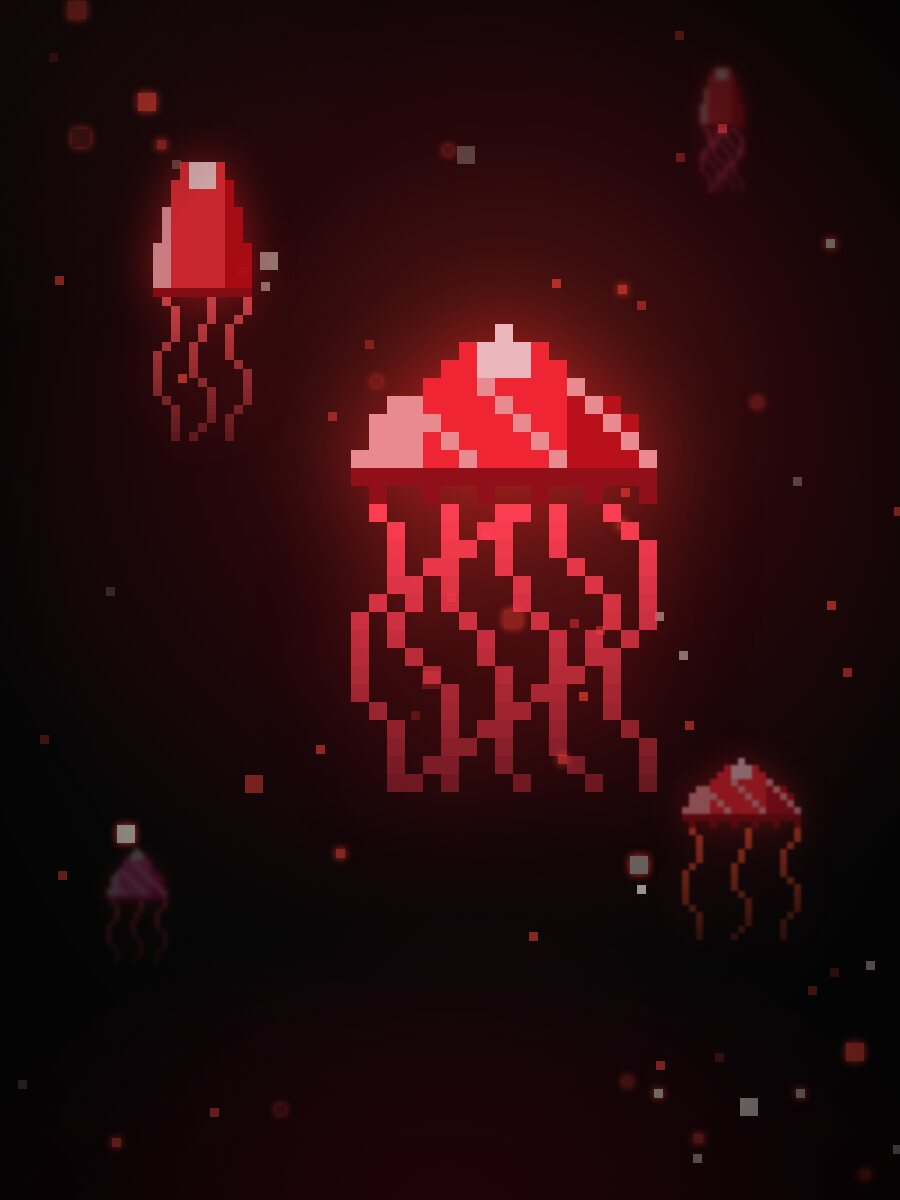
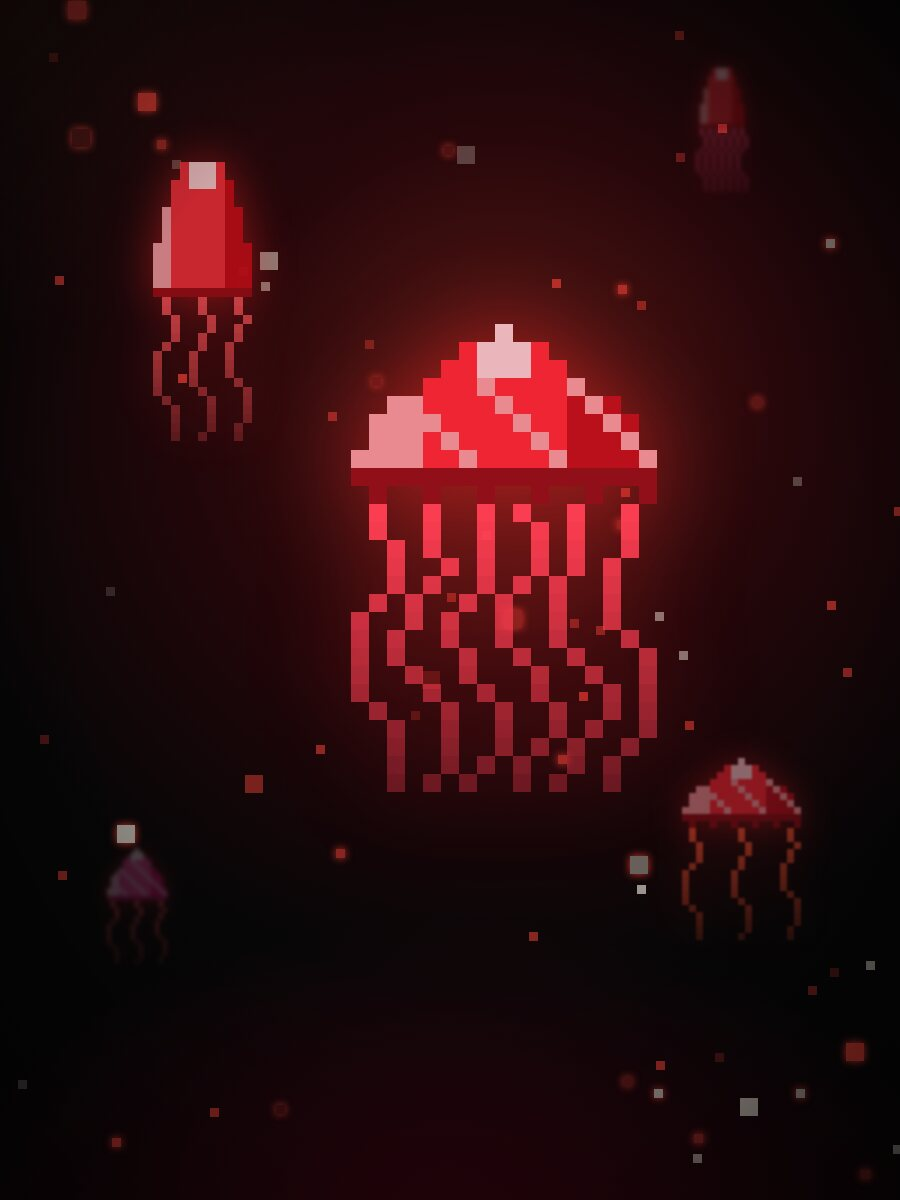
invitados del 4/12: Psico Caldeo + VHS (web, JSON-LD y calendario) y arte de la fecha con las patas nuevas
- Hero, ticket, "qué incluye" y fila de fechas con los invitados; JSON-LD con los dos como performers.
- OG nuevo og-los-rojos-4dic-invitados.jpg (patas que no se cruzan + "+ Psico Caldeo + VHS"), con nombre nuevo para que WhatsApp/Facebook no muestren el viejo.
- los-rojos-4dic.jpg (hero) con las patas nuevas.
- Calendario: la descripción sale de HM_EVENT.details (el ICS y el link de Google Calendar se arman en el navegador) y nombra a los invitados. También en lambdas/calendar, que hoy no está ruteada en aws-handler.js.

Claude-Session: https://claude.ai/code/session_01UHkbUBUV7byLMnd84JjHp3

Changed region(s): [[0.4044, 0.4008, 0.7467, 0.6783], [0.1867, 0.2467, 0.28, 0.37], [0.8089, 0.6783, 0.9022, 0.7708]]

diff --git a/public/index.html b/public/index.html
@@ -4,14 +4,14 @@
 <meta charset="UTF-8" />
 <meta name="viewport" content="width=device-width, initial-scale=1.0" />
 <title>Hidromedusa — Música electrónica en vivo de Tandil | 4 de diciembre en Los Rojos</title>
-<meta name="description" content="Hidromedusa — música electrónica en vivo desde Tandil. Próxima fecha: viernes 4 de diciembre en Los Rojos (Pinto 35), con invitados. Entrada gratis." />
+<meta name="description" content="Hidromedusa — música electrónica en vivo desde Tandil. Próxima fecha: viernes 4 de diciembre en Los Rojos (Pinto 35), con Psico Caldeo y VHS. Entrada gratis." />
 <link rel="canonical" href="https://hidromedusa.com/" />
 <meta name="theme-color" content="#0a0a0b" />
 <meta name="robots" content="index, follow, max-image-preview:large" />
 <script type="application/ld+json">
 {"@context":"https://schema.org","@graph":[
-{"@type":"MusicGroup","@id":"https://hidromedusa.com/#banda","name":"Hidromedusa","url":"https://hidromedusa.com/","genre":"Música electrónica en vivo","image":"https://hidromedusa.com/og-los-rojos-4dic.jpg","email":"hola@hidromedusa.com","sameAs":["https://www.instagram.com/hidromedusa"],"areaServed":"Tandil, Buenos Aires, Argentina"},
-{"@type":"MusicEvent","name":"Hidromedusa en Los Rojos","description":"Hidromedusa vuelve a Los Rojos (Pinto 35, Tandil) con música electrónica en vivo e invitados a confirmar. Entrada gratis.","startDate":"2026-12-04","eventStatus":"https://schema.org/EventScheduled","eventAttendanceMode":"https://schema.org/OfflineEventAttendanceMode","isAccessibleForFree":true,"image":["https://hidromedusa.com/og-los-rojos-4dic.jpg"],"location":{"@type":"Place","name":"Los Rojos","address":{"@type":"PostalAddress","streetAddress":"Pinto 35","addressLocality":"Tandil","addressRegion":"Buenos Aires","addressCountry":"AR"}},"performer":[{"@id":"https://hidromedusa.com/#banda"}],"organizer":{"@id":"https://hidromedusa.com/#banda"},"offers":{"@type":"Offer","url":"https://hidromedusa.com/#vernos","price":"0","priceCurrency":"ARS","availability":"https://schema.org/InStock","validFrom":"2026-11-10"}}
+{"@type":"MusicGroup","@id":"https://hidromedusa.com/#banda","name":"Hidromedusa","url":"https://hidromedusa.com/","genre":"Música electrónica en vivo","image":"https://hidromedusa.com/og-los-rojos-4dic-invitados.jpg","email":"hola@hidromedusa.com","sameAs":["https://www.instagram.com/hidromedusa"],"areaServed":"Tandil, Buenos Aires, Argentina"},
+{"@type":"MusicEvent","name":"Hidromedusa en Los Rojos","description":"Hidromedusa vuelve a Los Rojos (Pinto 35, Tandil) con música electrónica en vivo. Invitados: Psico Caldeo y VHS. Entrada gratis.","startDate":"2026-12-04","eventStatus":"https://schema.org/EventScheduled","eventAttendanceMode":"https://schema.org/OfflineEventAttendanceMode","isAccessibleForFree":true,"image":["https://hidromedusa.com/og-los-rojos-4dic-invitados.jpg"],"location":{"@type":"Place","name":"Los Rojos","address":{"@type":"PostalAddress","streetAddress":"Pinto 35","addressLocality":"Tandil","addressRegion":"Buenos Aires","addressCountry":"AR"}},"performer":[{"@id":"https://hidromedusa.com/#banda"},{"@type":"MusicGroup","name":"Psico Caldeo"},{"@type":"MusicGroup","name":"VHS"}],"organizer":{"@id":"https://hidromedusa.com/#banda"},"offers":{"@type":"Offer","url":"https://hidromedusa.com/#vernos","price":"0","priceCurrency":"ARS","availability":"https://schema.org/InStock","validFrom":"2026-11-10"}}
 ]}
 </script>
 
@@ -26,19 +26,19 @@
 <meta property="og:type" content="website" />
 <meta property="og:site_name" content="Hidromedusa" />
 <meta property="og:title" content="Hidromedusa · Vie 4/12 en Los Rojos, Tandil · Entrada gratis" />
-<meta property="og:description" content="Música electrónica en vivo desde Tandil. Volvemos a Los Rojos (Pinto 35) el viernes 4 de diciembre, con invitados. Entrada gratis, hora a confirmar." />
+<meta property="og:description" content="Música electrónica en vivo desde Tandil. Volvemos a Los Rojos (Pinto 35) el viernes 4 de diciembre, con Psico Caldeo y VHS. Entrada gratis, hora a confirmar." />
 <meta property="og:url" content="https://hidromedusa.com/" />
-<meta property="og:image" content="https://hidromedusa.com/og-los-rojos-4dic.jpg" />
+<meta property="og:image" content="https://hidromedusa.com/og-los-rojos-4dic-invitados.jpg" />
 <meta property="og:image:width" content="1200" />
 <meta property="og:image:height" content="630" />
 <meta property="og:image:type" content="image/jpeg" />
-<meta property="og:image:alt" content="Hidromedusa — viernes 4 de diciembre en Los Rojos (Pinto 35), Tandil, entrada libre. Un banco de hidromedusas pixeladas rojas." />
-<meta name="twitter:image:alt" content="Hidromedusa — viernes 4 de diciembre en Los Rojos, Tandil" />
+<meta property="og:image:alt" content="Hidromedusa + Psico Caldeo + VHS — viernes 4 de diciembre en Los Rojos (Pinto 35), Tandil, entrada libre. Un banco de hidromedusas pixeladas rojas." />
+<meta name="twitter:image:alt" content="Hidromedusa + Psico Caldeo + VHS — viernes 4 de diciembre en Los Rojos, Tandil" />
 <meta property="og:locale" content="es_AR" />
 <meta name="twitter:card" content="summary_large_image" />
 <meta name="twitter:title" content="Hidromedusa · Vie 4/12 en Los Rojos, Tandil · Entrada gratis" />
-<meta name="twitter:description" content="Música electrónica en vivo desde Tandil. Volvemos a Los Rojos (Pinto 35) el viernes 4 de diciembre, con invitados. Entrada gratis, hora a confirmar." />
-<meta name="twitter:image" content="https://hidromedusa.com/og-los-rojos-4dic.jpg" />
+<meta name="twitter:description" content="Música electrónica en vivo desde Tandil. Volvemos a Los Rojos (Pinto 35) el viernes 4 de diciembre, con Psico Caldeo y VHS. Entrada gratis, hora a confirmar." />
+<meta name="twitter:image" content="https://hidromedusa.com/og-los-rojos-4dic-invitados.jpg" />
 
 <link rel="preconnect" href="https://fonts.googleapis.com" />
 <link rel="preconnect" href="https://fonts.gstatic.com" crossorigin />
@@ -552,7 +552,7 @@
         <div>
           <div class="hn-k"><span class="blip"></span> Próxima fecha · Volvemos a Los Rojos</div>
           <div class="hn-t">Vie 4 Dic<br />Los Rojos · Pinto 35</div>
-          <div class="hn-s">Invitados <b>a confirmar</b> · hora a confirmar · Tandil</div>
+          <div class="hn-s">Invitados <b>Psico Caldeo + VHS</b> · hora a confirmar · Tandil</div>
         </div>
         <div class="hn-cta">
           <div class="hn-price">GRATIS</div>
@@ -600,7 +600,7 @@
             <div><div class="k">Fecha</div><div class="v">Viernes 4 de diciembre</div></div>
             <div><div class="k">Hora</div><div class="v">A confirmar</div></div>
             <div><div class="k">Lugar</div><div class="v"><a href="https://maps.google.com/?q=Pinto+35,+Tandil,+Buenos+Aires" target="_blank" rel="noopener" style="color:var(--acid)">Pinto 35 · Tandil ↗</a></div></div>
-            <div><div class="k">Invitados</div><div class="v">Se anuncian pronto</div></div>
+            <div><div class="k">Invitados</div><div class="v">Psico Caldeo + VHS</div></div>
           </div>
         </div>
         <div class="stub-side">
@@ -648,7 +648,7 @@
             <div class="incluye-h">Qué incluye</div>
             <ul class="incluye-list">
               <li>Acceso libre a la tocada</li>
-              <li>Invitados (se anuncian pronto)</li>
+              <li>Invitados: Psico Caldeo + VHS</li>
               <li>Barra habilitada</li>
               <li>Tu hidromedusa digital para compartir</li>
               <li>Si ya tenés una, evoluciona</li>
@@ -767,7 +767,7 @@
       <div style="margin-top:36px" class="reveal">
         <a class="cat-row" onclick="goTo('vernos')"><span class="cat-n">001</span><span class="cat-date">SÁB 19 SEP</span><span class="cat-venue">Los Rojos <small>Pinto 35 · Tandil, BA</small></span><span class="cat-status">Hecho</span><span class="cat-arrow"><i data-lucide="arrow-up-right"></i></span></a>
         <a class="cat-row" onclick="goTo('vernos')"><span class="cat-n">002</span><span class="cat-date">SÁB 31 OCT · 21HS</span><span class="cat-venue">990 Espacio Cultural <small>VHS + Marcos Acosta · Tandil, BA</small></span><span class="cat-status">Hecho</span><span class="cat-arrow"><i data-lucide="arrow-up-right"></i></span></a>
-        <a class="cat-row" onclick="goTo('vernos')"><span class="cat-n">003</span><span class="cat-date">VIE 4 DIC</span><span class="cat-venue">Los Rojos <small>Pinto 35 · invitados a confirmar · Tandil, BA</small></span><span class="cat-status hot" data-until="2026-12-04">Gratis</span><span class="cat-status" data-after="2026-12-04" hidden>Hecho</span><span class="cat-arrow"><i data-lucide="arrow-up-right"></i></span></a>
+        <a class="cat-row" onclick="goTo('vernos')"><span class="cat-n">003</span><span class="cat-date">VIE 4 DIC</span><span class="cat-venue">Los Rojos <small>Psico Caldeo + VHS · Tandil, BA</small></span><span class="cat-status hot" data-until="2026-12-04">Gratis</span><span class="cat-status" data-after="2026-12-04" hidden>Hecho</span><span class="cat-arrow"><i data-lucide="arrow-up-right"></i></span></a>
         <a class="cat-row" onclick="choose('proponer')"><span class="cat-n">004</span><span class="cat-date">¿TU FECHA?</span><span class="cat-venue">Proponela vos <small>fiesta · club · festival · espacio</small></span><span class="cat-status open">Abierta</span><span class="cat-arrow"><i data-lucide="arrow-up-right"></i></span></a>
       </div>
     </div>
@@ -933,6 +933,7 @@ const HM_EVENT = {
   id:'ev-2', title:'Hidromedusa · Los Rojos',
   date:'2026-12-04', start:'', end:'2026-12-05T06:00:00-03:00',   // hora a confirmar (start vacío)
   venue:'Los Rojos, Pinto 35, Tandil, Buenos Aires, AR',
+  details:'Hidromedusa en vivo en Los Rojos con Psico Caldeo y VHS. Entrada gratis.',
   dateLabel:'Viernes 4 de diciembre 2026 · hora a confirmar', shortLabel:'viernes 4/12 en Los Rojos (Pinto 35)'
 };
 // Pasado el fin del evento no se vende más y la entrada queda como recuerdo.
@@ -1578,7 +1579,7 @@ function buildGoogleCalUrl(ev){
   const params=new URLSearchParams({
     action:'TEMPLATE', text:ev.title,
     dates:fmtICS(ev.start)+'/'+fmtICS(ev.end),
-    details:'Hidromedusa en vivo en Los Rojos. Entrada gratis.', location:ev.venue
+    details:ev.details, location:ev.venue
   });
   return 'https://calendar.google.com/calendar/render?'+params;
 }
@@ -1587,7 +1588,7 @@ function buildICS(ev){
     'UID:'+ev.id+'@hidromedusa','DTSTAMP:'+fmtICS(Date.now()),
     'DTSTART:'+fmtICS(ev.start),'DTEND:'+fmtICS(ev.end),
     'SUMMARY:'+ev.title,'LOCATION:'+ev.venue,
-    'DESCRIPTION:Hidromedusa en vivo en Los Rojos. Entrada gratis.',
+    'DESCRIPTION:'+ev.details,
     'END:VEVENT','END:VCALENDAR'].join('\r\n');
 }
 async function addToCalendar(){

diff --git a/lambdas/calendar/index.js b/lambdas/calendar/index.js
@@ -11,7 +11,7 @@ const HIDROMEDUSA_EVENTS = [
   {
     id: 'ev-2',
     title: 'Hidromedusa · Los Rojos',
-    description: 'Hidromedusa vuelve a Los Rojos (Pinto 35), Tandil. Viernes 4 de diciembre 2026, entrada gratis, con invitados a confirmar. Hora a confirmar.',
+    description: 'Hidromedusa vuelve a Los Rojos (Pinto 35), Tandil. Viernes 4 de diciembre 2026, entrada gratis, con Psico Caldeo y VHS de invitados. Hora a confirmar.',
     start: '',   // hora a confirmar
     end:   '',
     location: 'Los Rojos, Pinto 35, Tandil, Buenos Aires, AR',

diff --git a/docs/CONTRACT.md b/docs/CONTRACT.md
@@ -29,7 +29,7 @@ invitaciones) nacen con `CURRENT_EVENT`. Si el `leadId` del navegador ya es una 
 ```
 id: ev-2   (vigente)
 title: Hidromedusa · Los Rojos
-date: 2026-12-04 (viernes)  time: a confirmar (start vacío; end holgado 2026-12-05 06:00 -03:00) · invitados a confirmar
+date: 2026-12-04 (viernes)  time: a confirmar (start vacío; end holgado 2026-12-05 06:00 -03:00) · invitados: Psico Caldeo, VHS
 venue: Los Rojos, Pinto 35, Tandil, Buenos Aires, AR
 tickets: entrada libre y gratuita (`free: true`) · se reserva avisando por WhatsApp/IG
 
